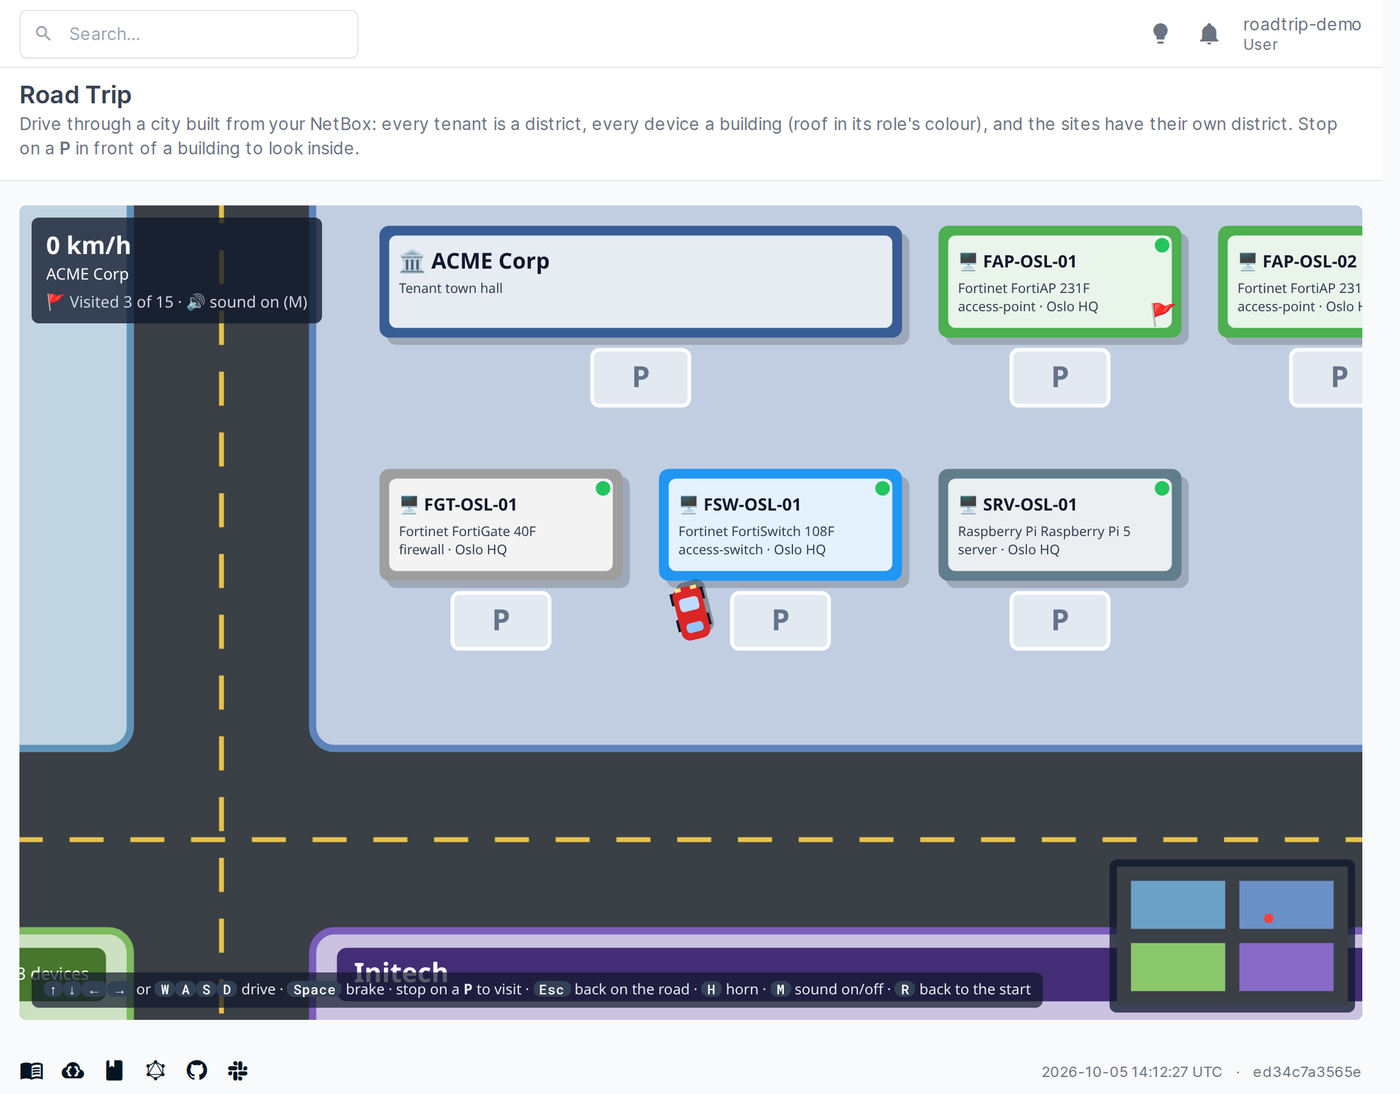
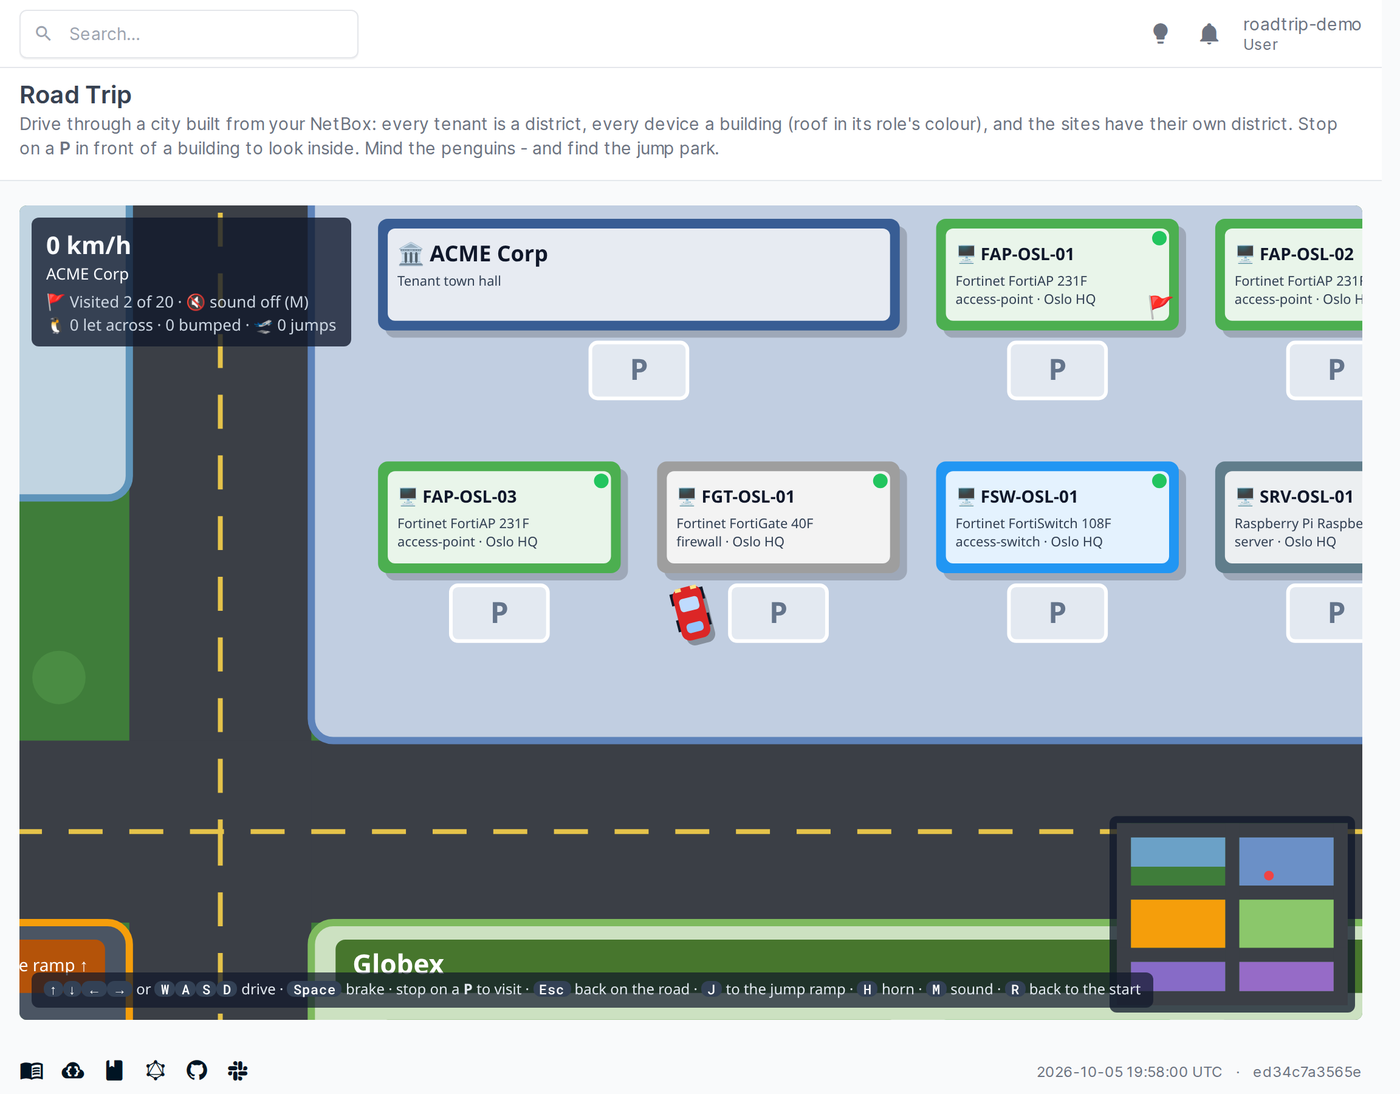
Road Trip 0.2.0: screenshots (drive, penguin, jump), pinned release install

diff --git a/roadtrip/README.md b/roadtrip/README.md
@@ -18,6 +18,17 @@ built from your NetBox data.
 - The **jump park** in the middle of the city has a ramp: drive up it northwards at full speed and the car soars
   over the map, into a sky full of your NetBox **prefixes** flying around like birds, then lands again (steer a
   little in the air). J takes you to the bottom of the ramp.
+
+<table>
+  <tr>
+    <td width="50%"><img src="docs/penguin.png" alt="A penguin crossing the road in front of the car, with a warning"></td>
+    <td width="50%"><img src="docs/jump.png" alt="In the air over the city, among prefixes flying like birds"></td>
+  </tr>
+  <tr>
+    <td>Brake for the penguin!</td>
+    <td>Off the ramp: the city below, prefixes flying like birds</td>
+  </tr>
+</table>
 - **Sound**: the engine follows your speed, the tyres squeal when you brake hard, buildings go *thud*, a parking
   spot beeps and a visit chimes; penguins peep and squawk, the jump whooshes, the wind blows and the prefix birds
   tweet. H is the horn, M turns the sound on and off (remembered in your browser). It is
@@ -38,8 +49,16 @@ NetBox 4.7 or later. No models, no migrations.
 ## Installation
 
 ```
-pip install "git+https://github.com/vinceneil666/netbox-plugins.git#subdirectory=roadtrip"
+pip install "git+https://github.com/vinceneil666/netbox-plugins.git@roadtrip-v0.2.0#subdirectory=roadtrip"
 ```
+
+or the wheel attached to the [release](https://github.com/vinceneil666/netbox-plugins/releases/tag/roadtrip-v0.2.0):
+
+```
+pip install https://github.com/vinceneil666/netbox-plugins/releases/download/roadtrip-v0.2.0/netbox_roadtrip-0.2.0-py3-none-any.whl
+```
+
+Leave out `@roadtrip-v0.2.0` to install the latest code from `main`.
 
 ```python
 # configuration.py (netbox-docker: configuration/plugins.py)
@@ -74,7 +93,7 @@ with NetBox's menu hidden.
 
 ## Changelog
 
-### 0.2.0 (unreleased)
+### 0.2.0 (2026-10-05, first release: `roadtrip-v0.2.0`)
 
 - Districts sized for their own buildings and packed into rows - no more huge empty districts next to a big one.
 - Only what is on screen is drawn, labels are measured once: smooth with thousands of devices.
@@ -82,7 +101,7 @@ with NetBox's menu hidden.
 - Jump park with a ramp in the middle of the city: fly over the map among your prefixes, as birds (`max_prefixes`).
 - J key to the ramp; more sounds (penguins, jump, wind, birds); HUD counts penguins and jumps.
 
-### 0.1.0 (2026-10-05, merged to `main`, not released)
+### 0.1.0 (2026-10-05, merged to `main`)
 
 First version: tenant districts, device buildings in role colours, a sites district, parking spots that open the
 object's page, visited flags, minimap, sound effects (engine, skid, bump, park, arrival chime, horn; mute with M).

diff --git a/README.md b/README.md
@@ -7,7 +7,7 @@ directory, is a separate Python package and can be installed on its own.
 |---|---|---|
 | [Prefix Planner](prefix-planner/) | Plan a tenant's address block with sliders and provision the tenant and its prefixes in one go. Includes a REST API. | 4.7+ |
 | [FortiManager Integrator](fortimanager-integrator/) **(beta)** | Create FortiGates as FortiManager model devices from NetBox (blueprint, serial, ADOM from the tenant or an override) push their rendered config as a CLI script, and keep their per-device metadata variables in sync, with checks and readable logs. | 4.7+ |
-| [Road Trip](roadtrip/) **(just for fun)** | Drive a car through a city made of your tenants, sites and devices; stop at a building to open its NetBox page. | 4.7+ |
+| [Road Trip](roadtrip/) **(just for fun)** | Drive a car through a city made of your tenants, sites and devices; stop at a building to open its NetBox page, brake for penguins, jump over the city among your prefixes. | 4.7+ |
 
 ## Screenshots
 
@@ -22,11 +22,11 @@ directory, is a separate Python package and can be installed on its own.
   </tr>
   <tr>
     <td width="50%"><a href="roadtrip/"><img src="roadtrip/docs/drive.png" alt="Road Trip: driving through a tenant district"></a></td>
-    <td width="50%"><a href="roadtrip/"><img src="roadtrip/docs/visit.png" alt="Road Trip: a device page opened from the game"></a></td>
+    <td width="50%"><a href="roadtrip/"><img src="roadtrip/docs/jump.png" alt="Road Trip: flying over the city among prefixes"></a></td>
   </tr>
   <tr>
     <td><b>Road Trip</b> (just for fun) - drive through your tenants and devices</td>
-    <td><b>Road Trip</b> - stop at a building to open its NetBox page</td>
+    <td><b>Road Trip</b> - off the ramp, among your prefixes</td>
   </tr>
 </table>
 
@@ -38,6 +38,12 @@ Install a released version of a plugin with pip, using the release tag and the p
 ```bash
 source /opt/netbox/venv/bin/activate
 pip install "git+https://github.com/vinceneil666/netbox-plugins.git@prefix-planner-v0.5.0#subdirectory=prefix-planner"
+```
+
+Road Trip is released too:
+
+```bash
+pip install "git+https://github.com/vinceneil666/netbox-plugins.git@roadtrip-v0.2.0#subdirectory=roadtrip"
 ```
 
 Leave out `@<tag>` to install the latest code from `main` - that is currently the only way to install the
